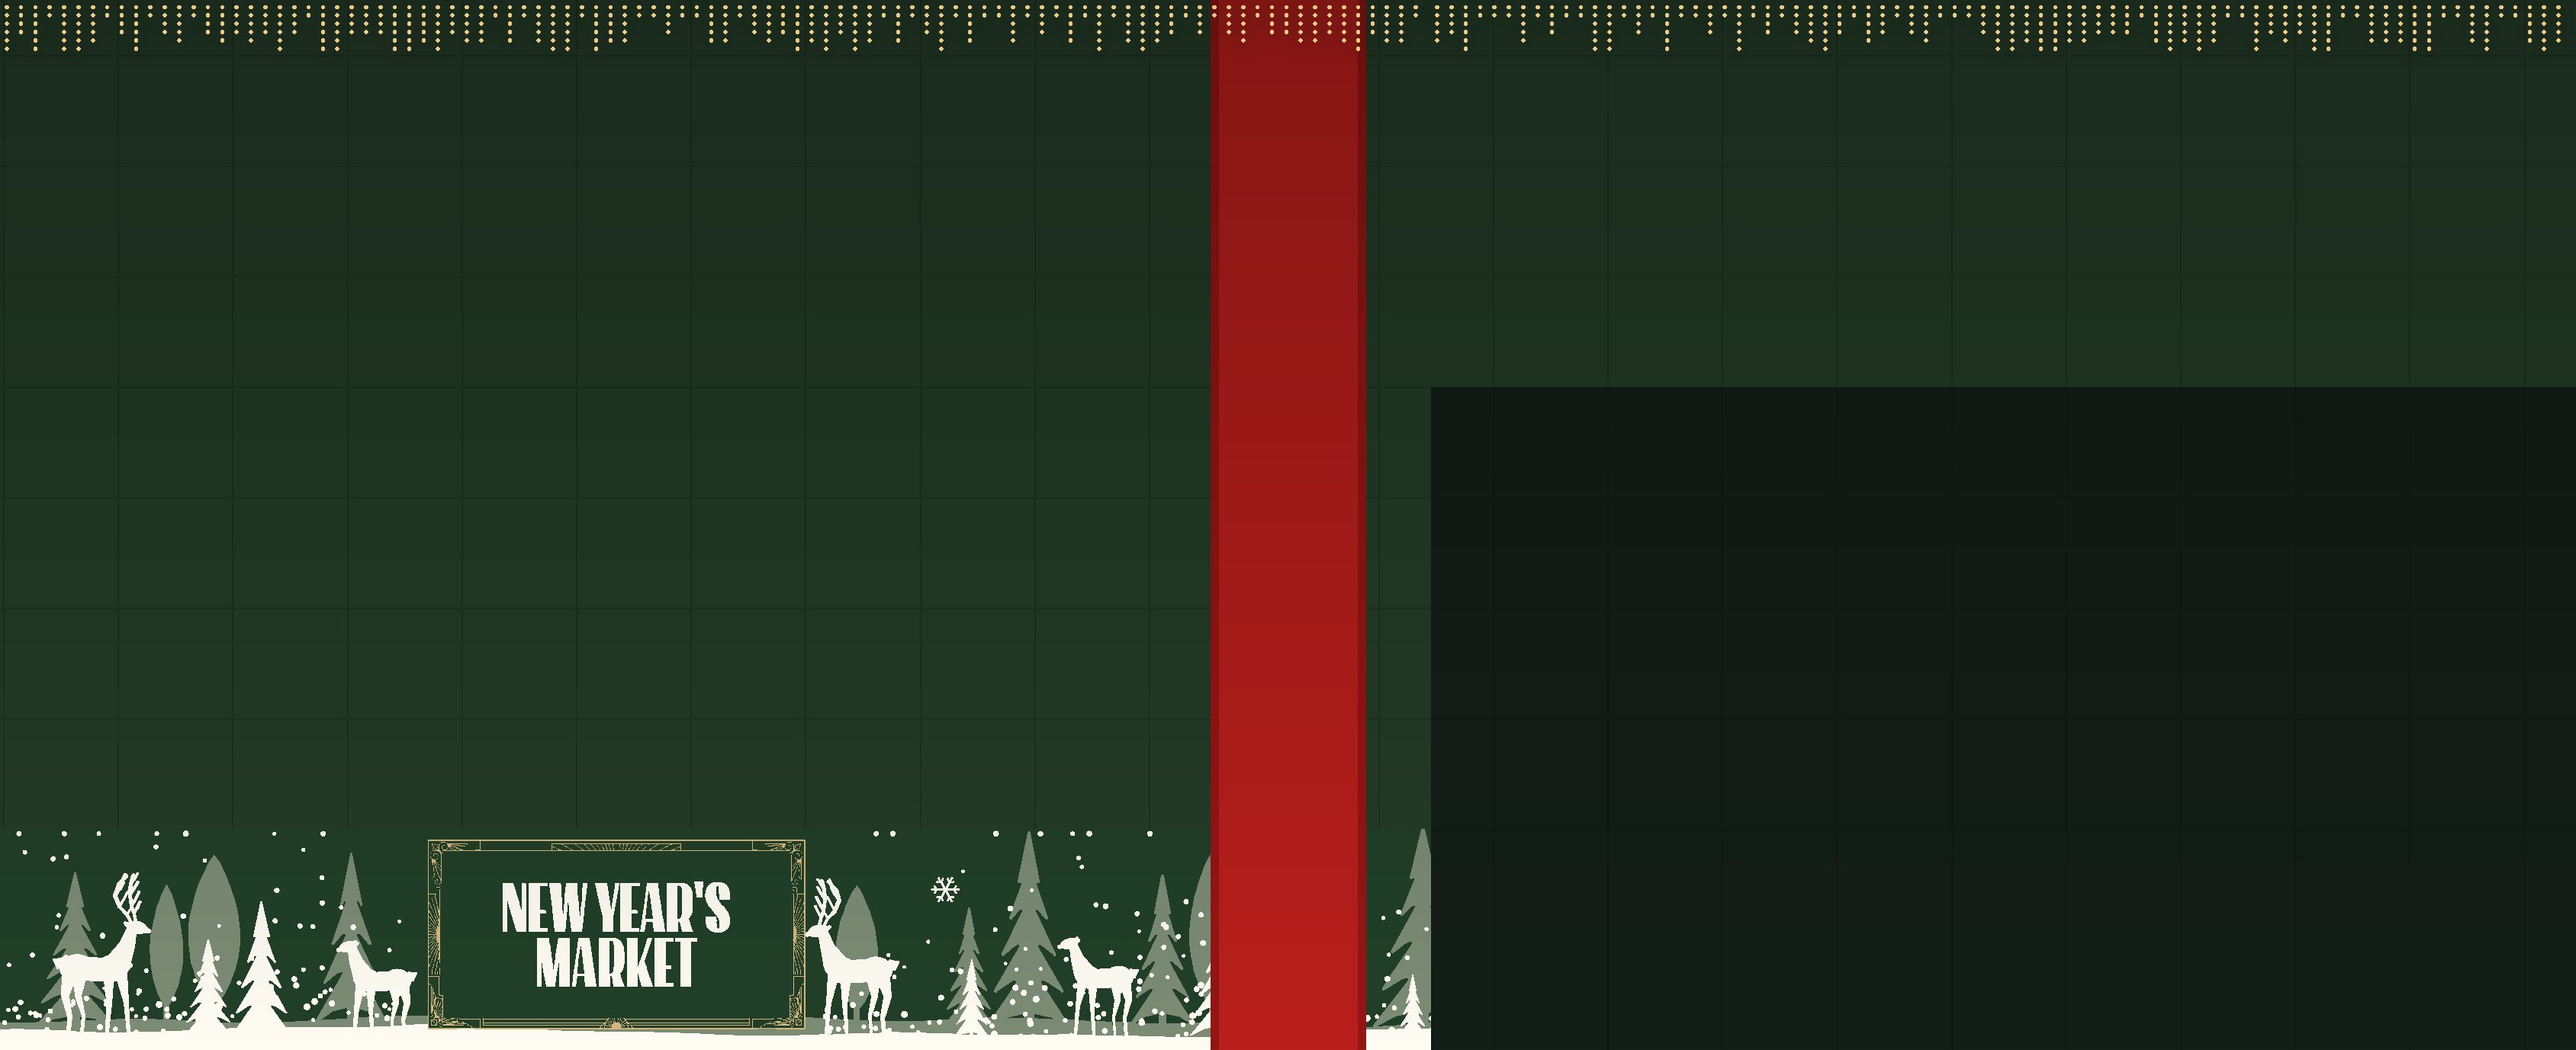
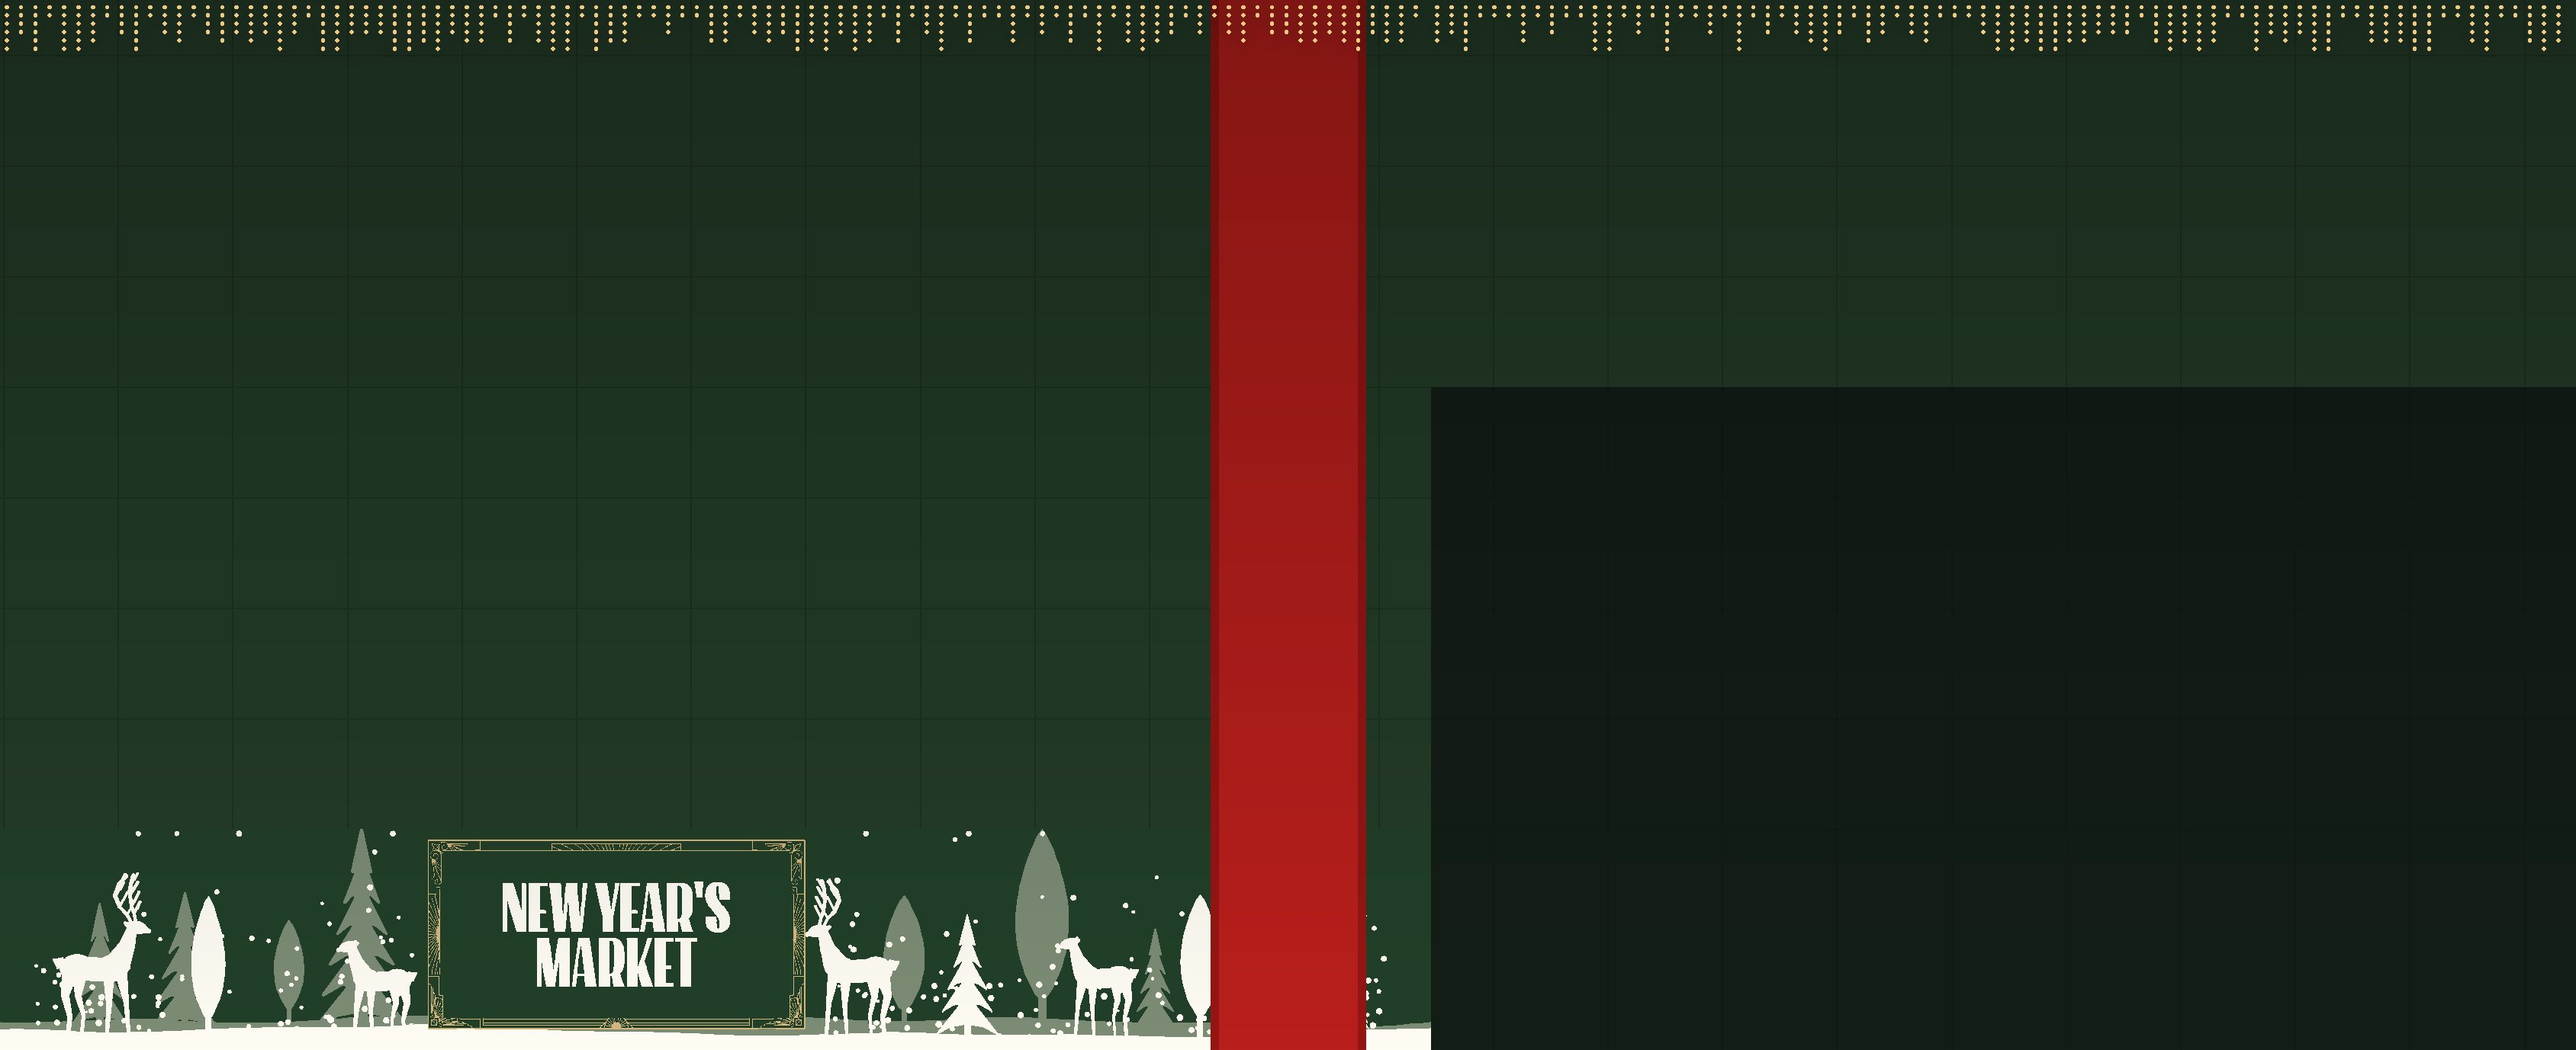
Baskı yüzeyleri: 21 tam cephe dosyası, K1-Y1…K7-Y4 kodları
Claude-Session: https://claude.ai/code/session_01PwMsb7QHkJtVZ3r2SNCFxZ

Changed region(s): [[0.3109, 0.7807, 0.4975, 0.9993], [0.0, 0.8119, 0.1555, 0.9993], [0.5286, 0.8119, 0.5597, 0.9993]]

diff --git a/index.html b/index.html
@@ -45,17 +45,17 @@
 <body>
 <canvas id="c"></canvas>
 <div id="load">YÜKLENİYOR…</div>
-<header><h1>NEW YEAR'S MARKET · CEPHE 3D</h1><span class="sub">GALATAPORT · SAAT KULESİ MEYDANI · ALT 2 M MESH BASKI + KURDELE + TABELA + WALL WASHER</span></header>
+<header><h1>NEW YEAR'S MARKET · CEPHE 3D</h1><span class="sub">GALATAPORT · SAAT KULESİ MEYDANI · 21 YÜZEY TAM CEPHE BASKI (ALT 2 M DESEN) + KURDELE + TABELA + WALL WASHER</span></header>
 <div class="bar">
   <div class="grp" id="views"><b>GÖRÜNÜM</b><button data-v="all">GENEL</button><button data-v="top">ÜSTTEN</button></div>
   <div class="grp" id="layers"><b>ETİKETLER</b>
-    <button class="on" data-l="box">KUTU</button><button class="on" data-l="strip">BASKI PARÇASI</button>
+    <button class="on" data-l="box">KUTU</button><button class="on" data-l="strip">BASKI YÜZEYİ</button>
     <button class="on" data-l="panel">NYM PANEL</button><button class="on" data-l="logo">LOGO</button>
     <button class="on" data-l="ww">WALL WASHER</button><button class="on" data-l="ribbon">KURDELE</button><button class="on" data-l="sign">TABELA</button><button class="on" data-l="door">GİRİŞ</button>
   </div>
   <div class="grp"><b>ARAÇ</b><button id="measure">ÖLÇ</button><button id="clear">TEMİZLE</button></div>
 </div>
-<div id="help"><span>SOL TUŞ</span> döndür · <span>SAĞ TUŞ</span> kaydır · <span>TEKER</span> yakınlaş<br>Cephenin üstüne gelince alttaki kutuda o noktanın <span>baskı parçası</span> ve <span>ölçüsü</span> yazar.<br><span>ÖLÇ</span>: iki noktaya tıkla, arası metre olarak çıkar.<br>Ölçüler SketchUp açılımlarından, kurdele yerleri Branding Çatı V12 planından alınmıştır.</div>
+<div id="help"><span>SOL TUŞ</span> döndür · <span>SAĞ TUŞ</span> kaydır · <span>TEKER</span> yakınlaş<br>Cephenin üstüne gelince alttaki kutuda o noktanın <span>baskı yüzeyi</span> (K1-Y1 gibi) ve <span>ölçüsü</span> yazar.<br><span>ÖLÇ</span>: iki noktaya tıkla, arası metre olarak çıkar.<br>Ölçüler SketchUp açılımlarından, kurdele yerleri Branding Çatı V12 planından alınmıştır.</div>
 <div id="info">Cephenin üzerine gel</div>
 <script type="module">
 import * as THREE from 'three';
@@ -195,8 +195,7 @@ canvas.addEventListener('pointermove',ev=>{
   const {box,side:s,strips}=h.object.userData; const P=h.point;
   const u=s.e0+(P.x-s.p0[0])*s.d[0]+(P.z-s.p0[1])*s.d[1]; const y=P.y;
   let t=`<span class="k">KUTU ${box}</span> · yükseklik ${fmt(y)} m`;
-  if(y<2){const st=strips.find(q=>u>=q.x0&&u<=q.x1); if(st) t+=` · <span class="k">${st.code}</span> içinde soldan ${fmt(u-st.x0)} m / ${fmt(st.x1-st.x0)} m`; }
-  else t+=` · üst mesh · yüzey açılımında ${fmt(u)} m`;
+  {const st=strips.find(q=>u>=q.x0-0.001&&u<=q.x1+0.001); if(st) t+=` · <span class="k">${st.code}</span> baskısında soldan ${fmt(u-st.x0)} m / ${fmt(st.x1-st.x0)} m${y<2?' · desen alanı':' · düz yeşil'}`; }
   info.innerHTML=t;
 });
 let mOn=false, mPts=[], mObjs=[];
